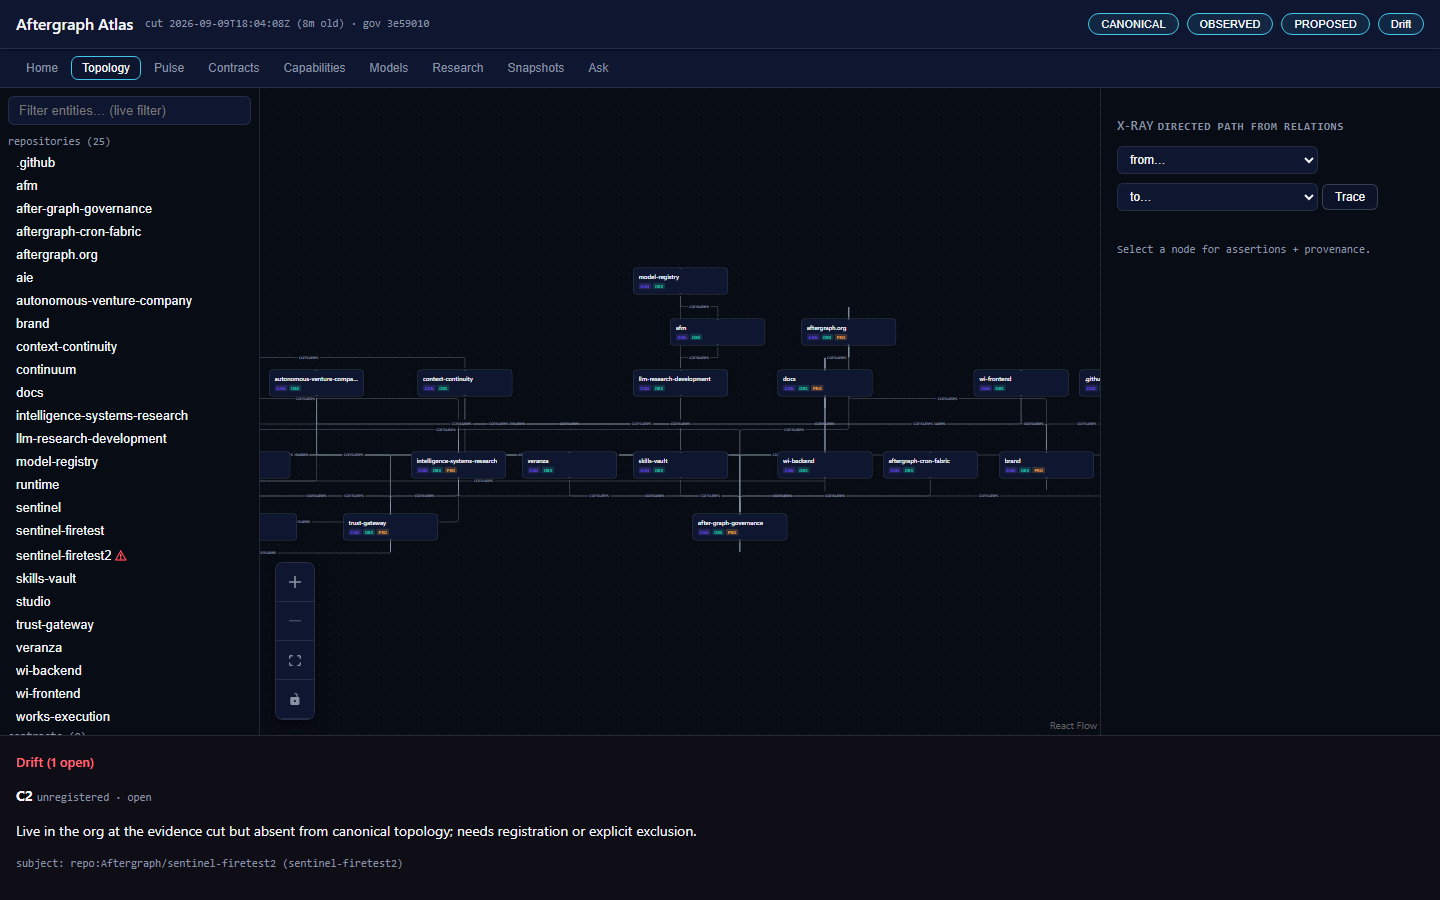
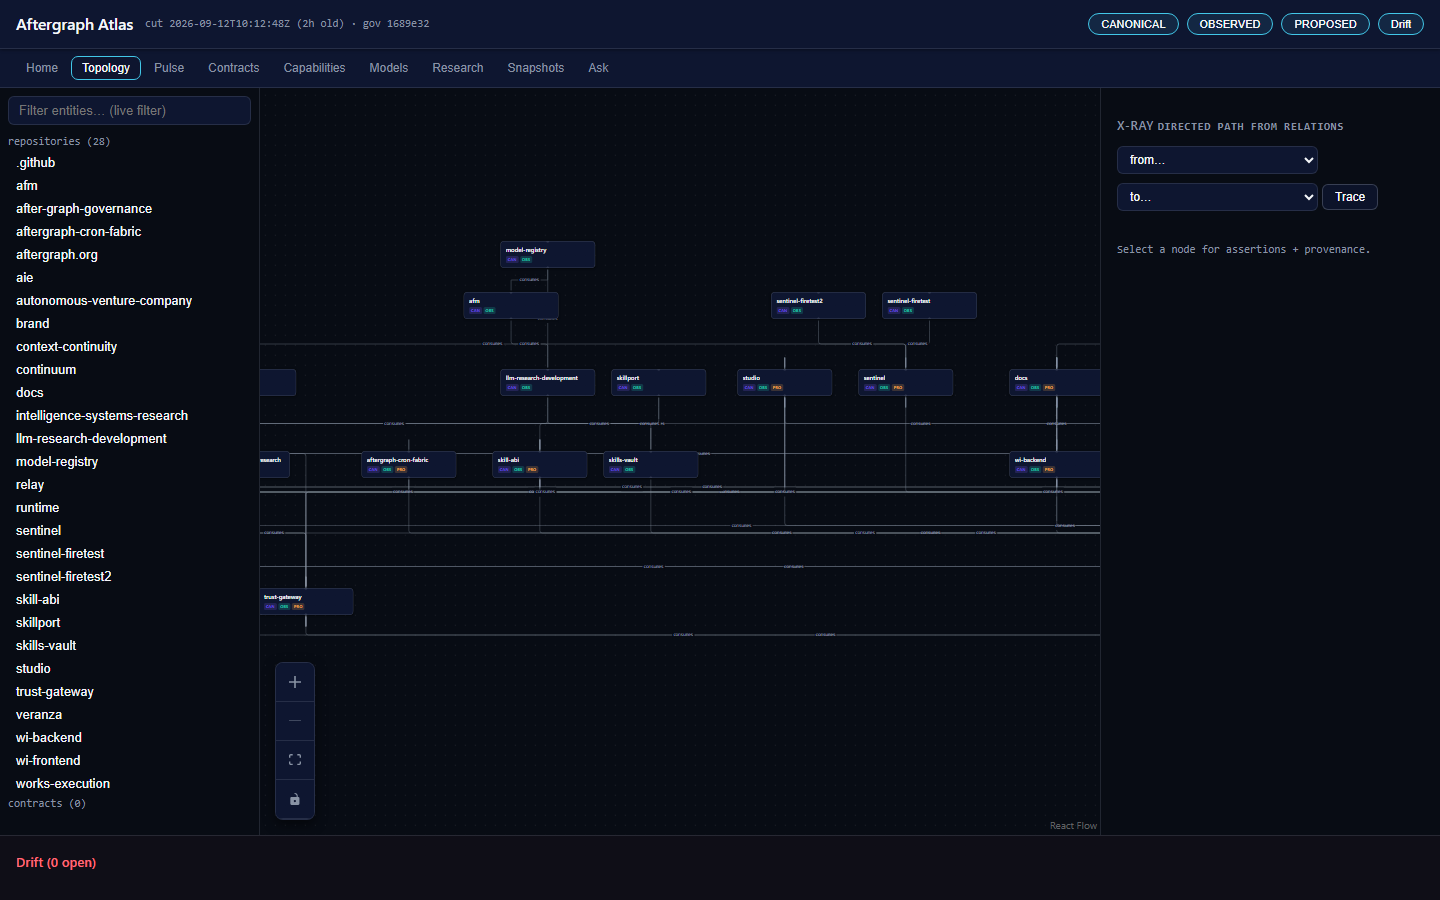
chore(atlas): E60 sweep evidence — gitignore build outputs, 5 re-shot qa-shots, ledger verification entry
Left uncommitted by the E60 run; gates were green at that head (16/16 projection,
40/40 vitest, verify-atlas PASS, V2 PASS, DOM PASS, leak-scan 0). Screenshots
re-shot against cut-#12 build (gov 1689e32).

Changed region(s): [[0.1562, 0.2489, 0.7812, 0.7467], [0.0, 0.5289, 0.5, 0.9644], [0.7188, 0.9022, 0.7812, 0.9333]]

diff --git a/docs/atlas/LEDGER.md b/docs/atlas/LEDGER.md
@@ -287,6 +287,14 @@ Spike: `C:/Users/empir/aftergraph-site/` (14-repo static dashboard, NOT a git re
   Projection 169/453/260/0, 12th snapshot indexed. Gates: 16/16 projection,
   40/40 vitest, verify-atlas PASS, V2 PASS, vite build green, worker rebuilt,
   leak-scan 0/358. verify-site/studio fails pre-existing.
+- E60 Verification sweep (2026-09-12T13:00Z, no re-cut — gov 1689e32 unchanged,
+  all 15 public heads static): full gate matrix re-run green — 16/16 projection,
+  40/40 vitest, verify-atlas PASS (169/453/260/0), V2 PASS, vite build green
+  (index-CakhugVW byte-identical), build-worker PASS, DOM PASS (16 checks,
+  3 viewports), leak-scan 0/344. Build-sequence rule re-proven: vite emptyOutDir
+  wipes projection.json+snapshots/ → run build-worker AFTER vite. 5 screenshots
+  re-shot against cut-#12 build committed. workspace/ + site/atlas build outputs
+  added to .gitignore (private heads never committed).
 - E1 Live org list (25): `gh repo list Aftergraph` 2026-09-08 (see OBSERVED cut files).
 - E2 Rename proof: `gh api repos/Aftergraph/work-intelligence-v2` returns `name: wi-backend` (redirect).
 - E3 Canonical 21: `platform-topology/1.0.json` cut 2026-09-07 (workspace clone).
